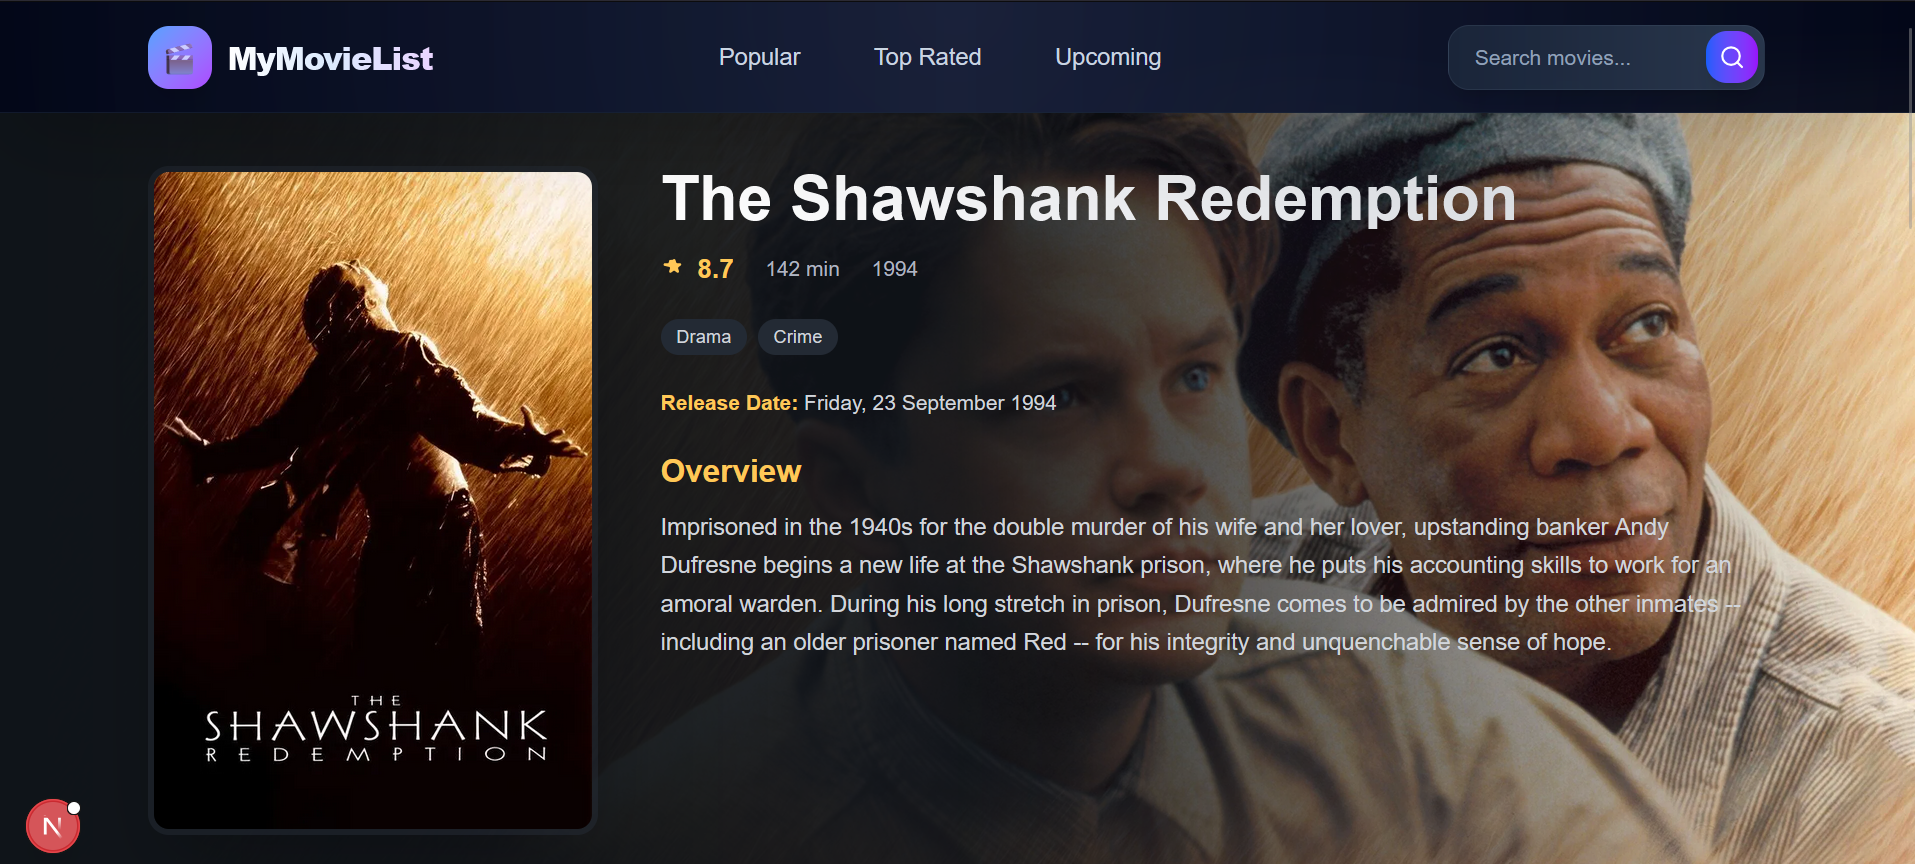
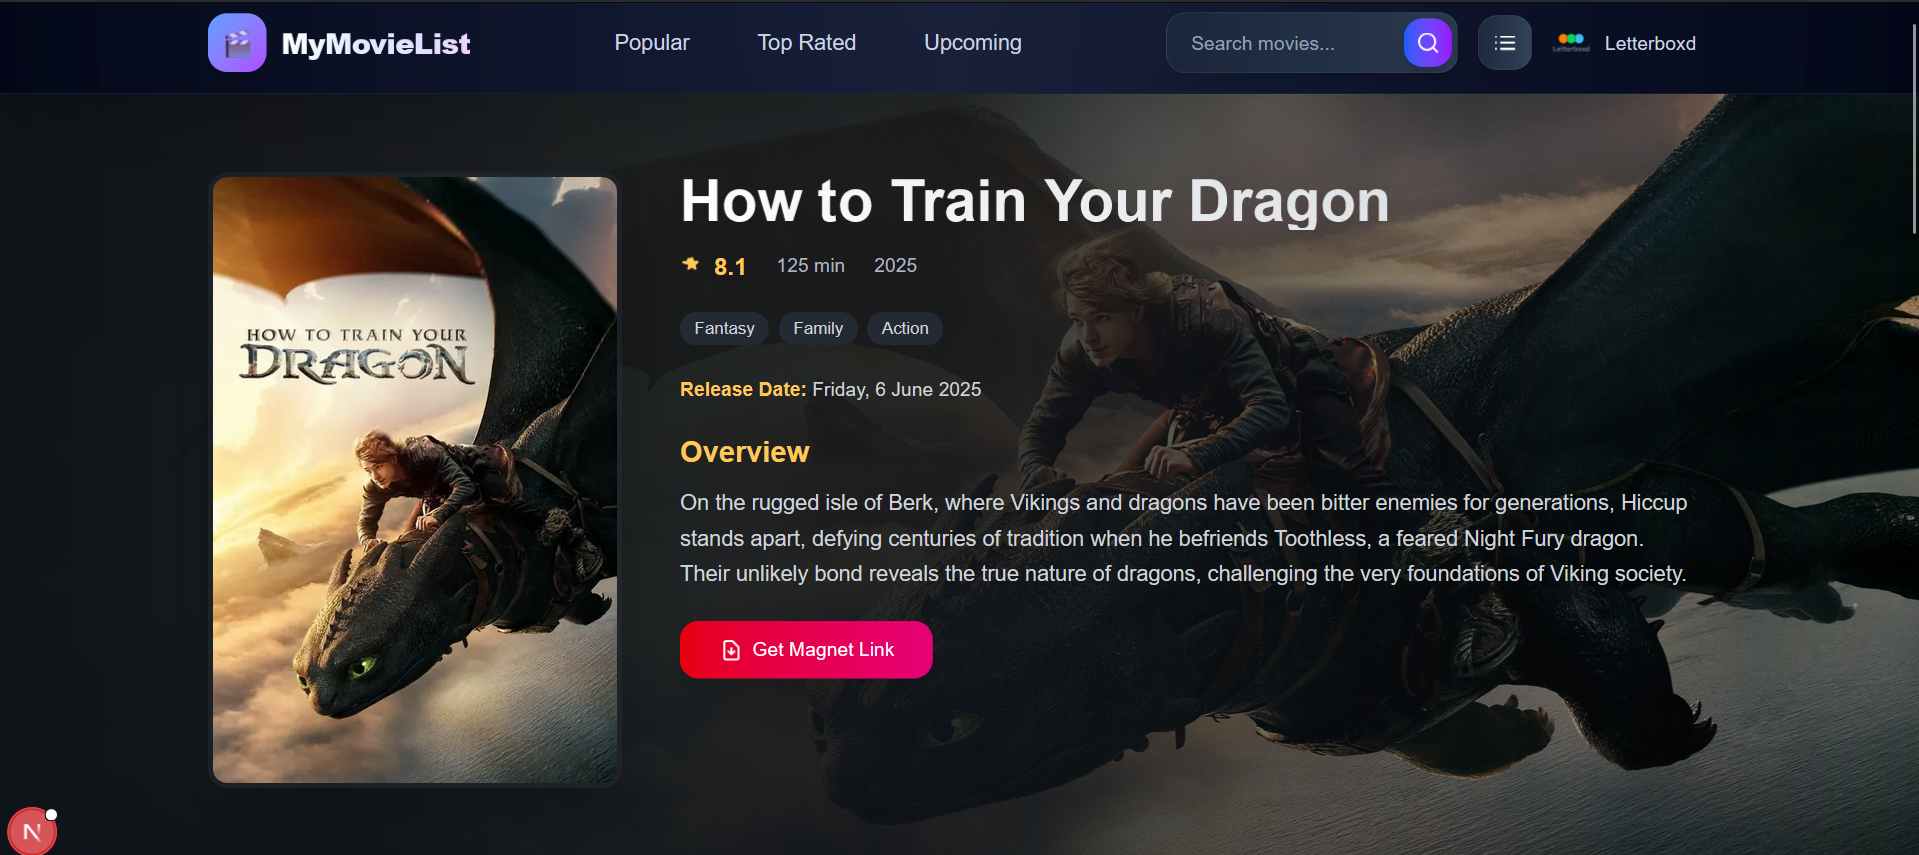
fixed bugs

diff --git a/README.md b/README.md
@@ -1,6 +1,8 @@
 # MyMovieList
 
-**MyMovieList** is a modern movie web application built using **Next.js 15** and **Tailwind CSS**. It leverages the **TMDb (The Movie Database) API** to deliver real-time information on popular, upcoming, and top-rated movies. Users can explore detailed movie pages featuring cast information and similar movie suggestions — all wrapped in a sleek, cinematic UI.
+**MyMovieList** is a modern movie web application built using Next.js 15 and Tailwind CSS. It leverages the TMDb (The Movie Database) API to deliver real-time information on popular, upcoming, and top-rated movies. Users can explore detailed movie pages featuring cast information and similar movie suggestions — all wrapped in a sleek, cinematic UI.
+
+The app also features a magnet link discovery tool, allowing users to fetch magnet links for selected movies. Additionally, users can import Letterboxd lists by URL, automatically processing up to 20 movies to retrieve related metadata and corresponding magnet links.
 
 ---
 
@@ -17,6 +19,17 @@
 - Popular Movies
 - Top-Rated Titles
 - Upcoming Releases
+
+### ✅ Magnet Link Finder
+
+- Fetch magnet links for selected movies directly from search or detail pages
+
+### Letterboxd Integration
+
+![logo](./public/letterboxd.svg)
+
+- Import Letterboxd list URLs
+- Automatically processes up to 20 movies for metadata and magnet link resolution
 
 ### 🔍 Smart Search
 
@@ -69,6 +82,10 @@
 ### Search Results
 
 ![Search Results](./public/search.png)
+
+### Letterboxd
+
+![Search Results](./public/letterboxd.png)
 
 ---
 
